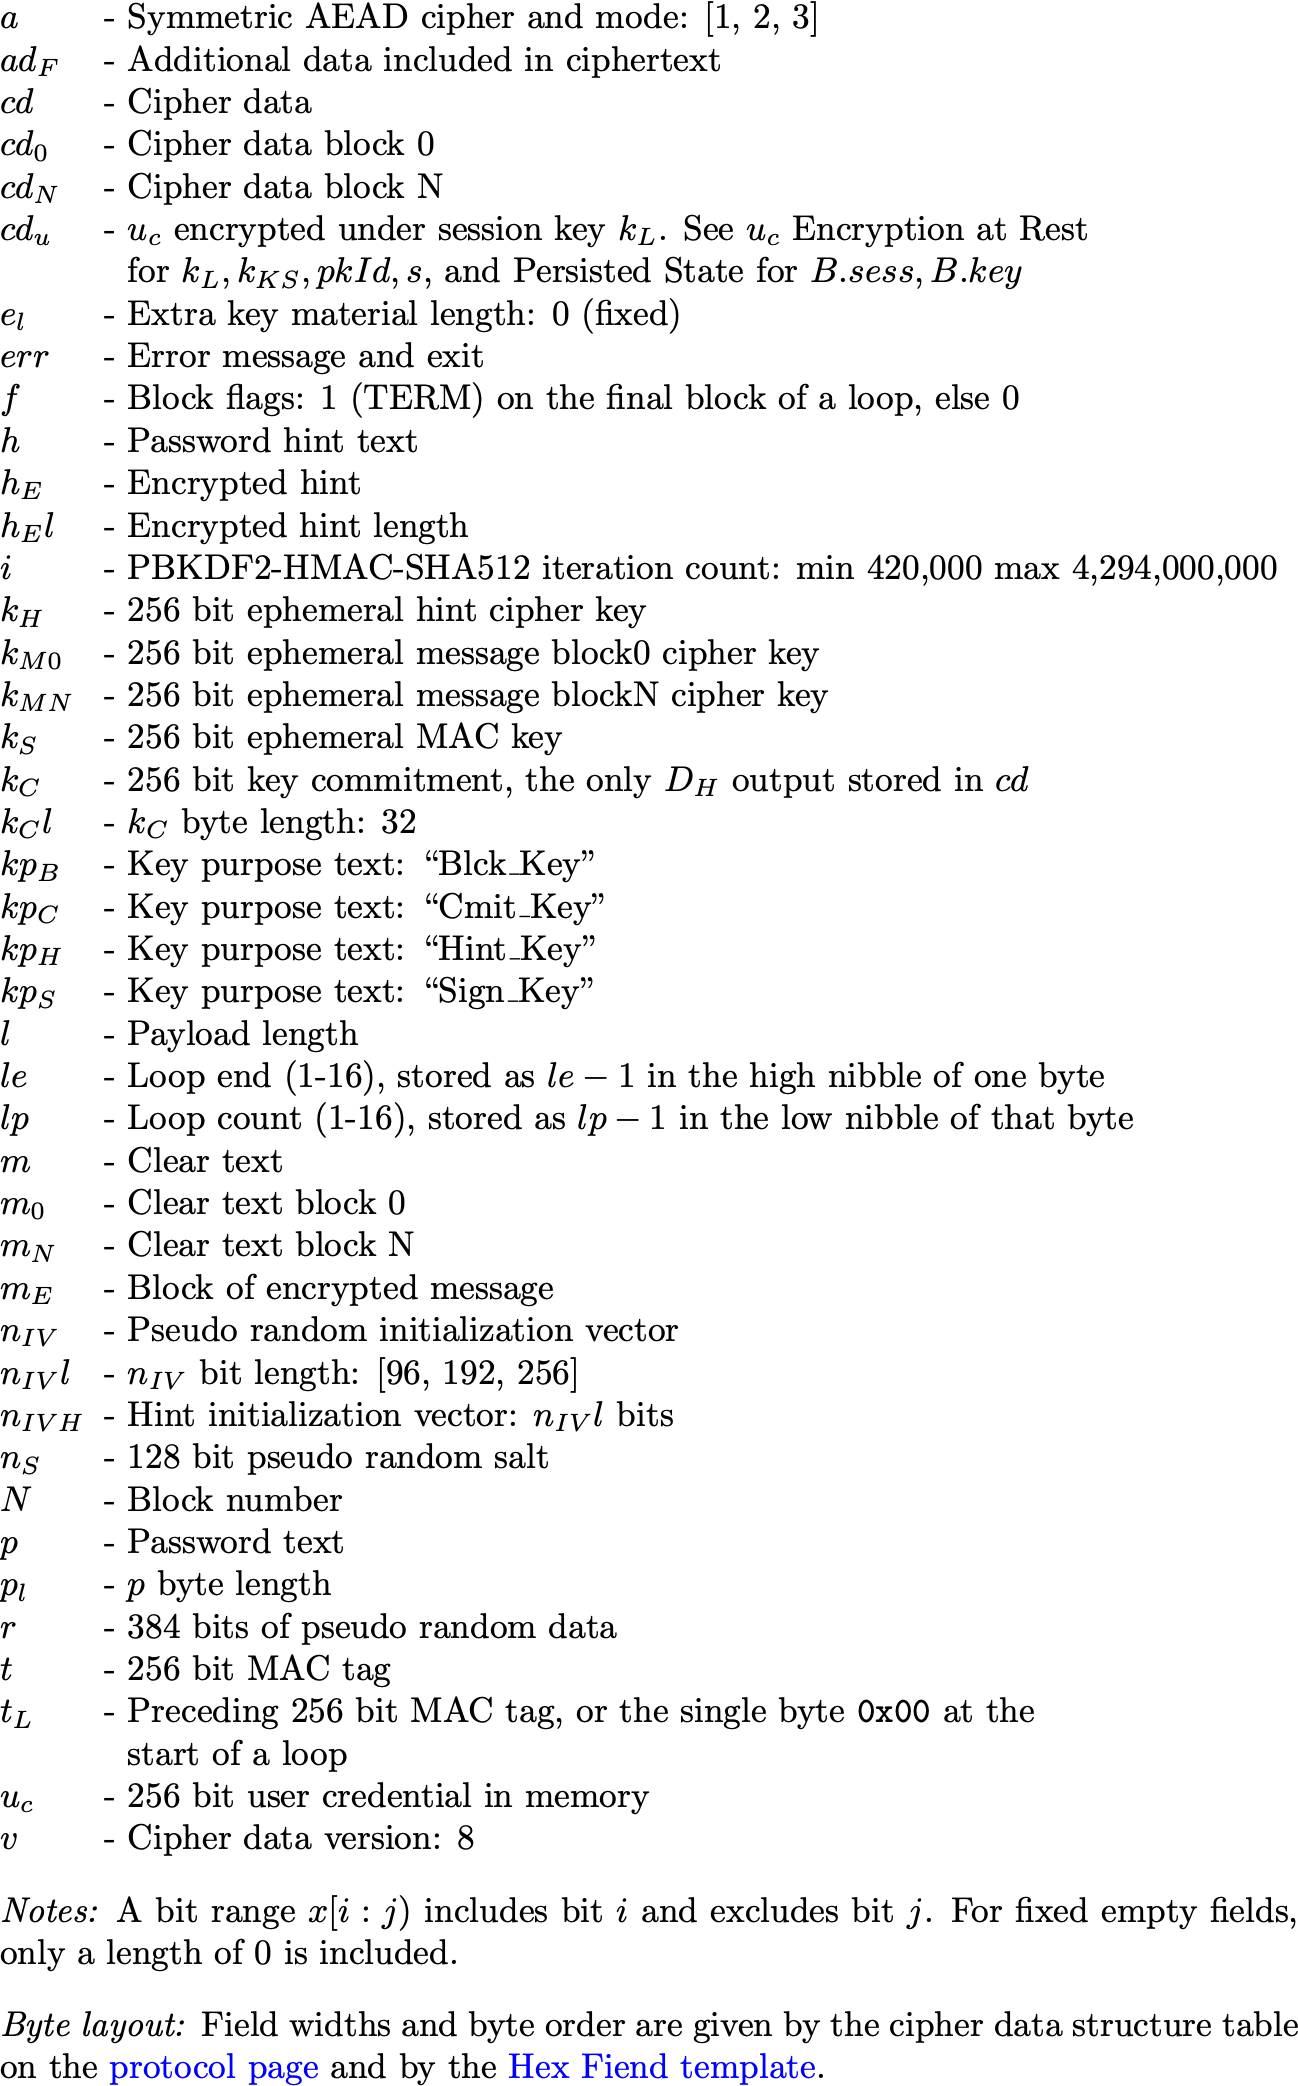
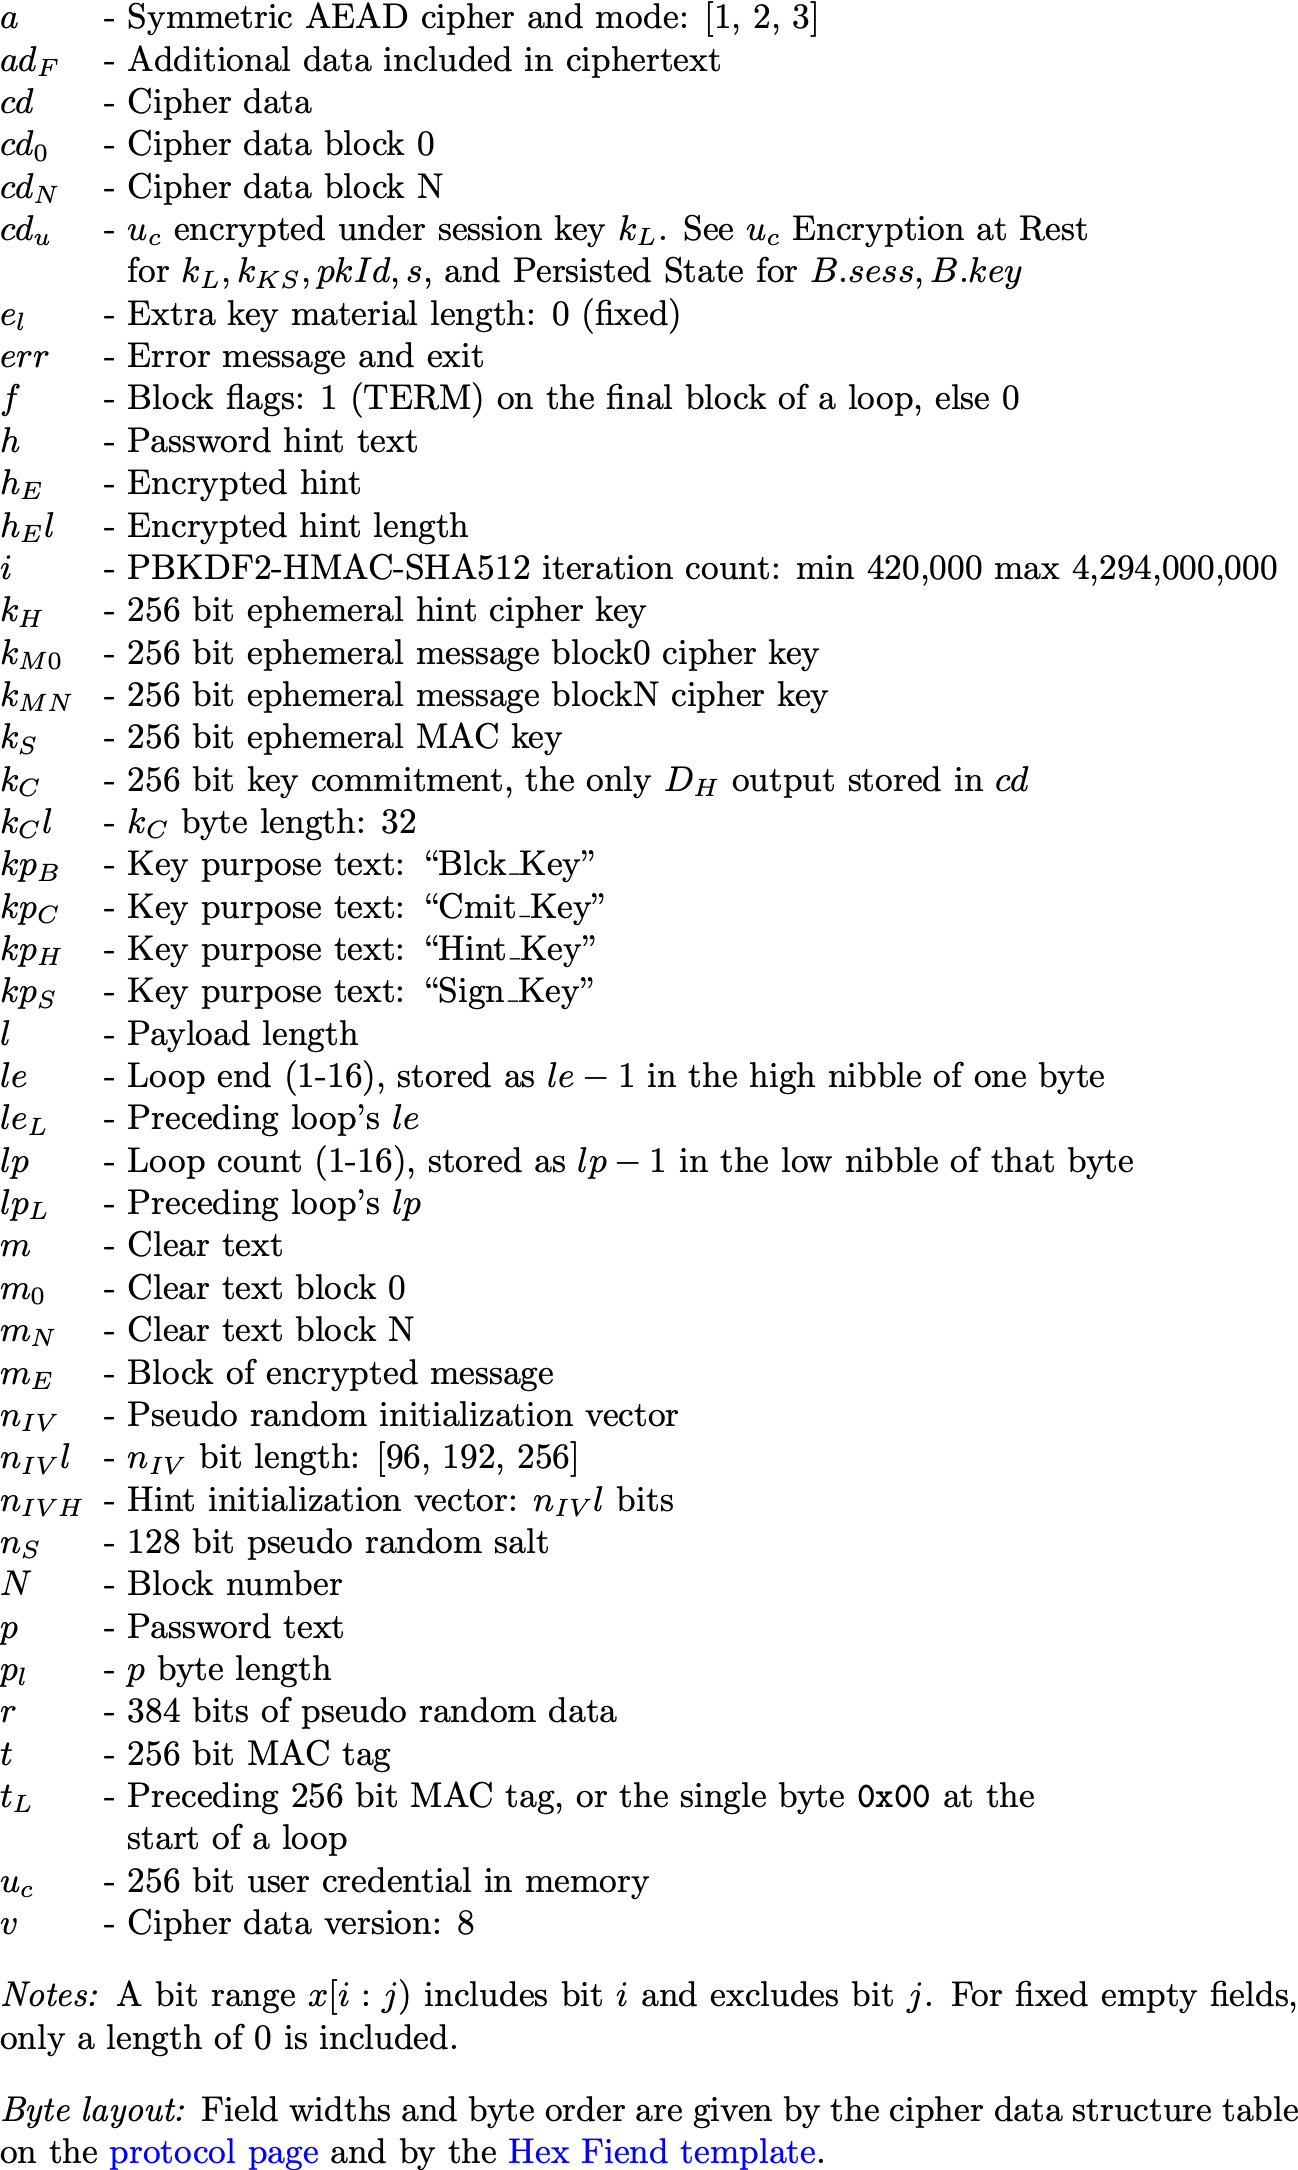
protocol doc tweaks

diff --git a/apps/web/src/app/help/protocol/protocol8.component.html b/apps/web/src/app/help/protocol/protocol8.component.html
@@ -259,7 +259,7 @@
     <h2>Browser and Libsodium Functions</h2>
     <img src="/assets/functions8.png" width="648" height="815" />
     <h2>Cipher Variables</h2>
-    <img src="/assets/variables8.png" width="649" height="1043" />
+    <img src="/assets/variables8.png" width="649" height="1085" />
     <h2>Message Encryption by A</h2>
     <img src="/assets/encrypt8.png" width="370" height="518" />
     <h2>Block 0 (<i>cd<sub>0</sub></i>) Encryption by B</h2>
@@ -267,7 +267,7 @@
     <h2>Block N (<i>cd<sub>N</sub></i>) Encryption by B</h2>
     <img src="/assets/encrypt_bN8.png" width="318" height="212" />
     <h2>Message Decryption by A</h2>
-    <img src="/assets/decrypt8.png" width="615" height="602" />
+    <img src="/assets/decrypt8.png" width="531" height="645" />
     <h2>Block 0 (<i>m<sub>0</sub></i>) Decryption by B</h2>
     <img src="/assets/decrypt_b08.png" width="236" height="20" />
     <h2>Block N (<i>m<sub>N</sub></i>) Decryption by B</h2>

diff --git a/apps/web/src/assets-src/main.tex b/apps/web/src/assets-src/main.tex
@@ -128,7 +128,9 @@ $kp_H$ & \textrm{ - Key purpose text: ``Hint\_Key''}\\
 $kp_S$ & \textrm{ - Key purpose text: ``Sign\_Key''}\\
 $l$ & \textrm{ - Payload length}\\
 $le$ & \textrm{ - Loop end (1-16), stored as }$le-1$\textrm{ in the high nibble of one byte}\\
+$le_L$ & \textrm{ - Preceding loop's }$le$\\
 $lp$ & \textrm{ - Loop count (1-16), stored as }$lp-1$\textrm{ in the low nibble of that byte}\\
+$lp_L$ & \textrm{ - Preceding loop's }$lp$\\
 $m$ & \textrm{ - Clear text}\\
 $m_0$ & \textrm{ - Clear text block 0}\\
 $m_N$ & \textrm{ - Clear text block N}\\
@@ -248,7 +250,9 @@ $v$ & \textrm{ - Cipher data version: 8}\\
 &$n_{IVH} = D_H(2,kp_H,H_{n_{IV}}(n_S,a,v,lp,e_l))$\\
 &$k_H = D_H(1,kp_H,H_{u_c}(n_S,a,v,lp,e_l))$\\
 &$h = PAD^{-1}(E_a^{-1}(h_E,n_{IVH},\emptyset,k_H))$\\
-&$\textrm{check }lp == le\textrm{ in the first loop and }lp-1\textrm{ in each successive loop else }err$\\
+&$\textrm{check }lp == le\textrm{ for the outermost loop else }err$\\
+&$\textrm{check }lp == lp_L-1\textrm{ and }le == le_L\textrm{ for each inner loop else }err$\\
+&$lp_L = lp;\ le_L = le$\\
 &$B \rightarrow A: h$\\
 &$B \leftarrow A: p$\\
 &$\textrm{check }i \geq 420{,}000\textrm{ else }err$\\
